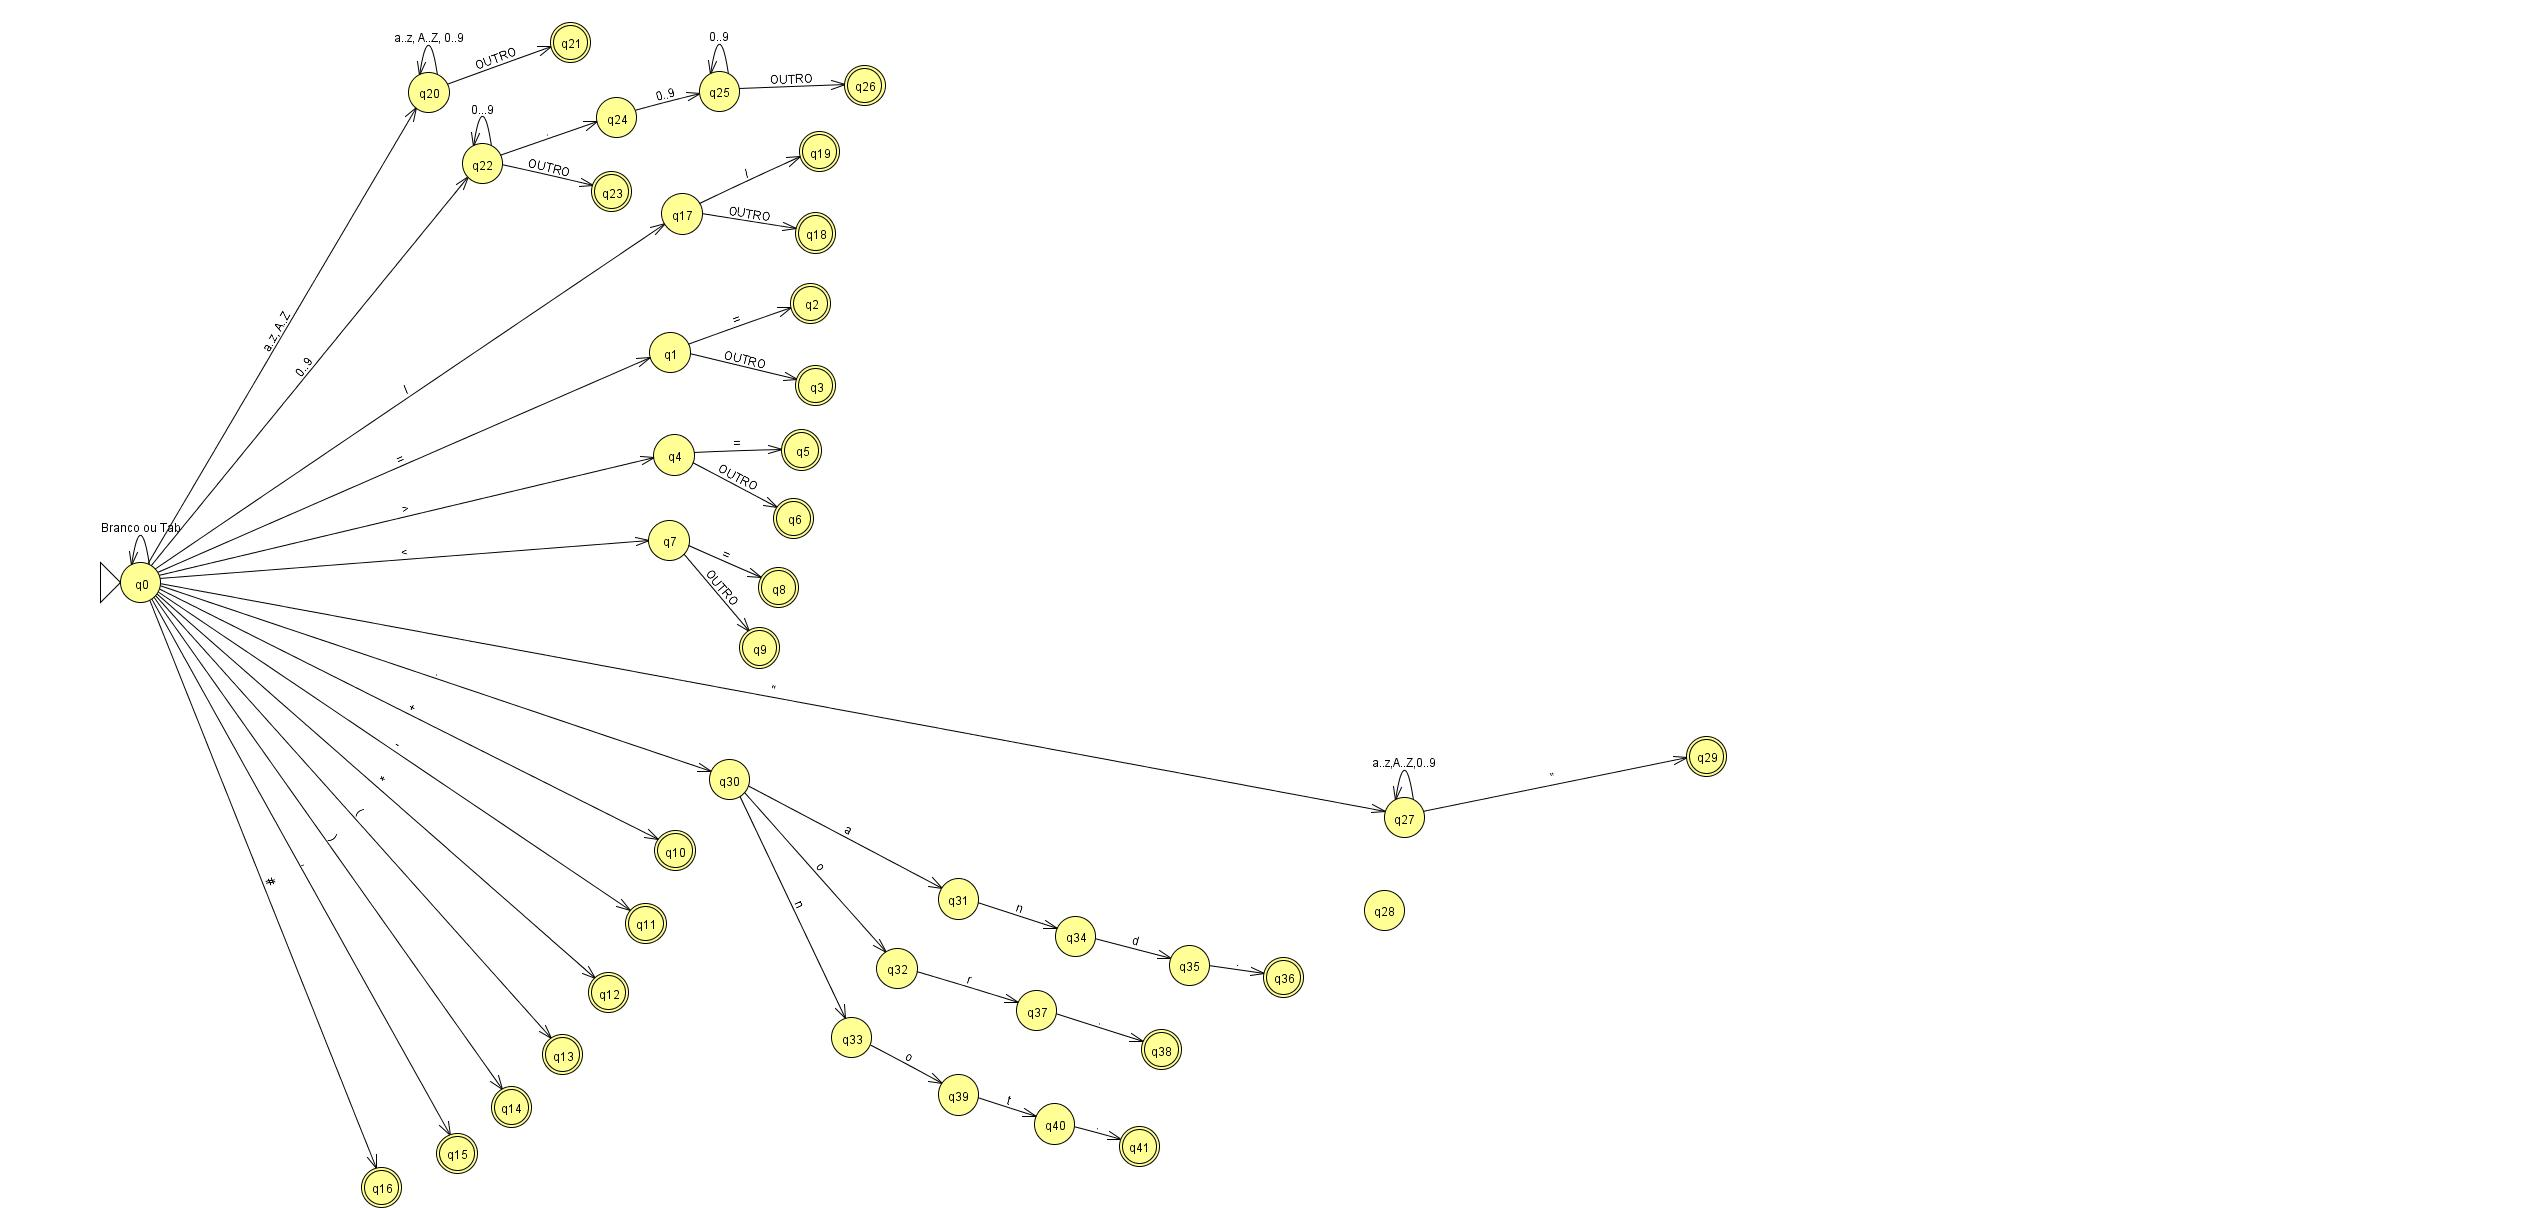
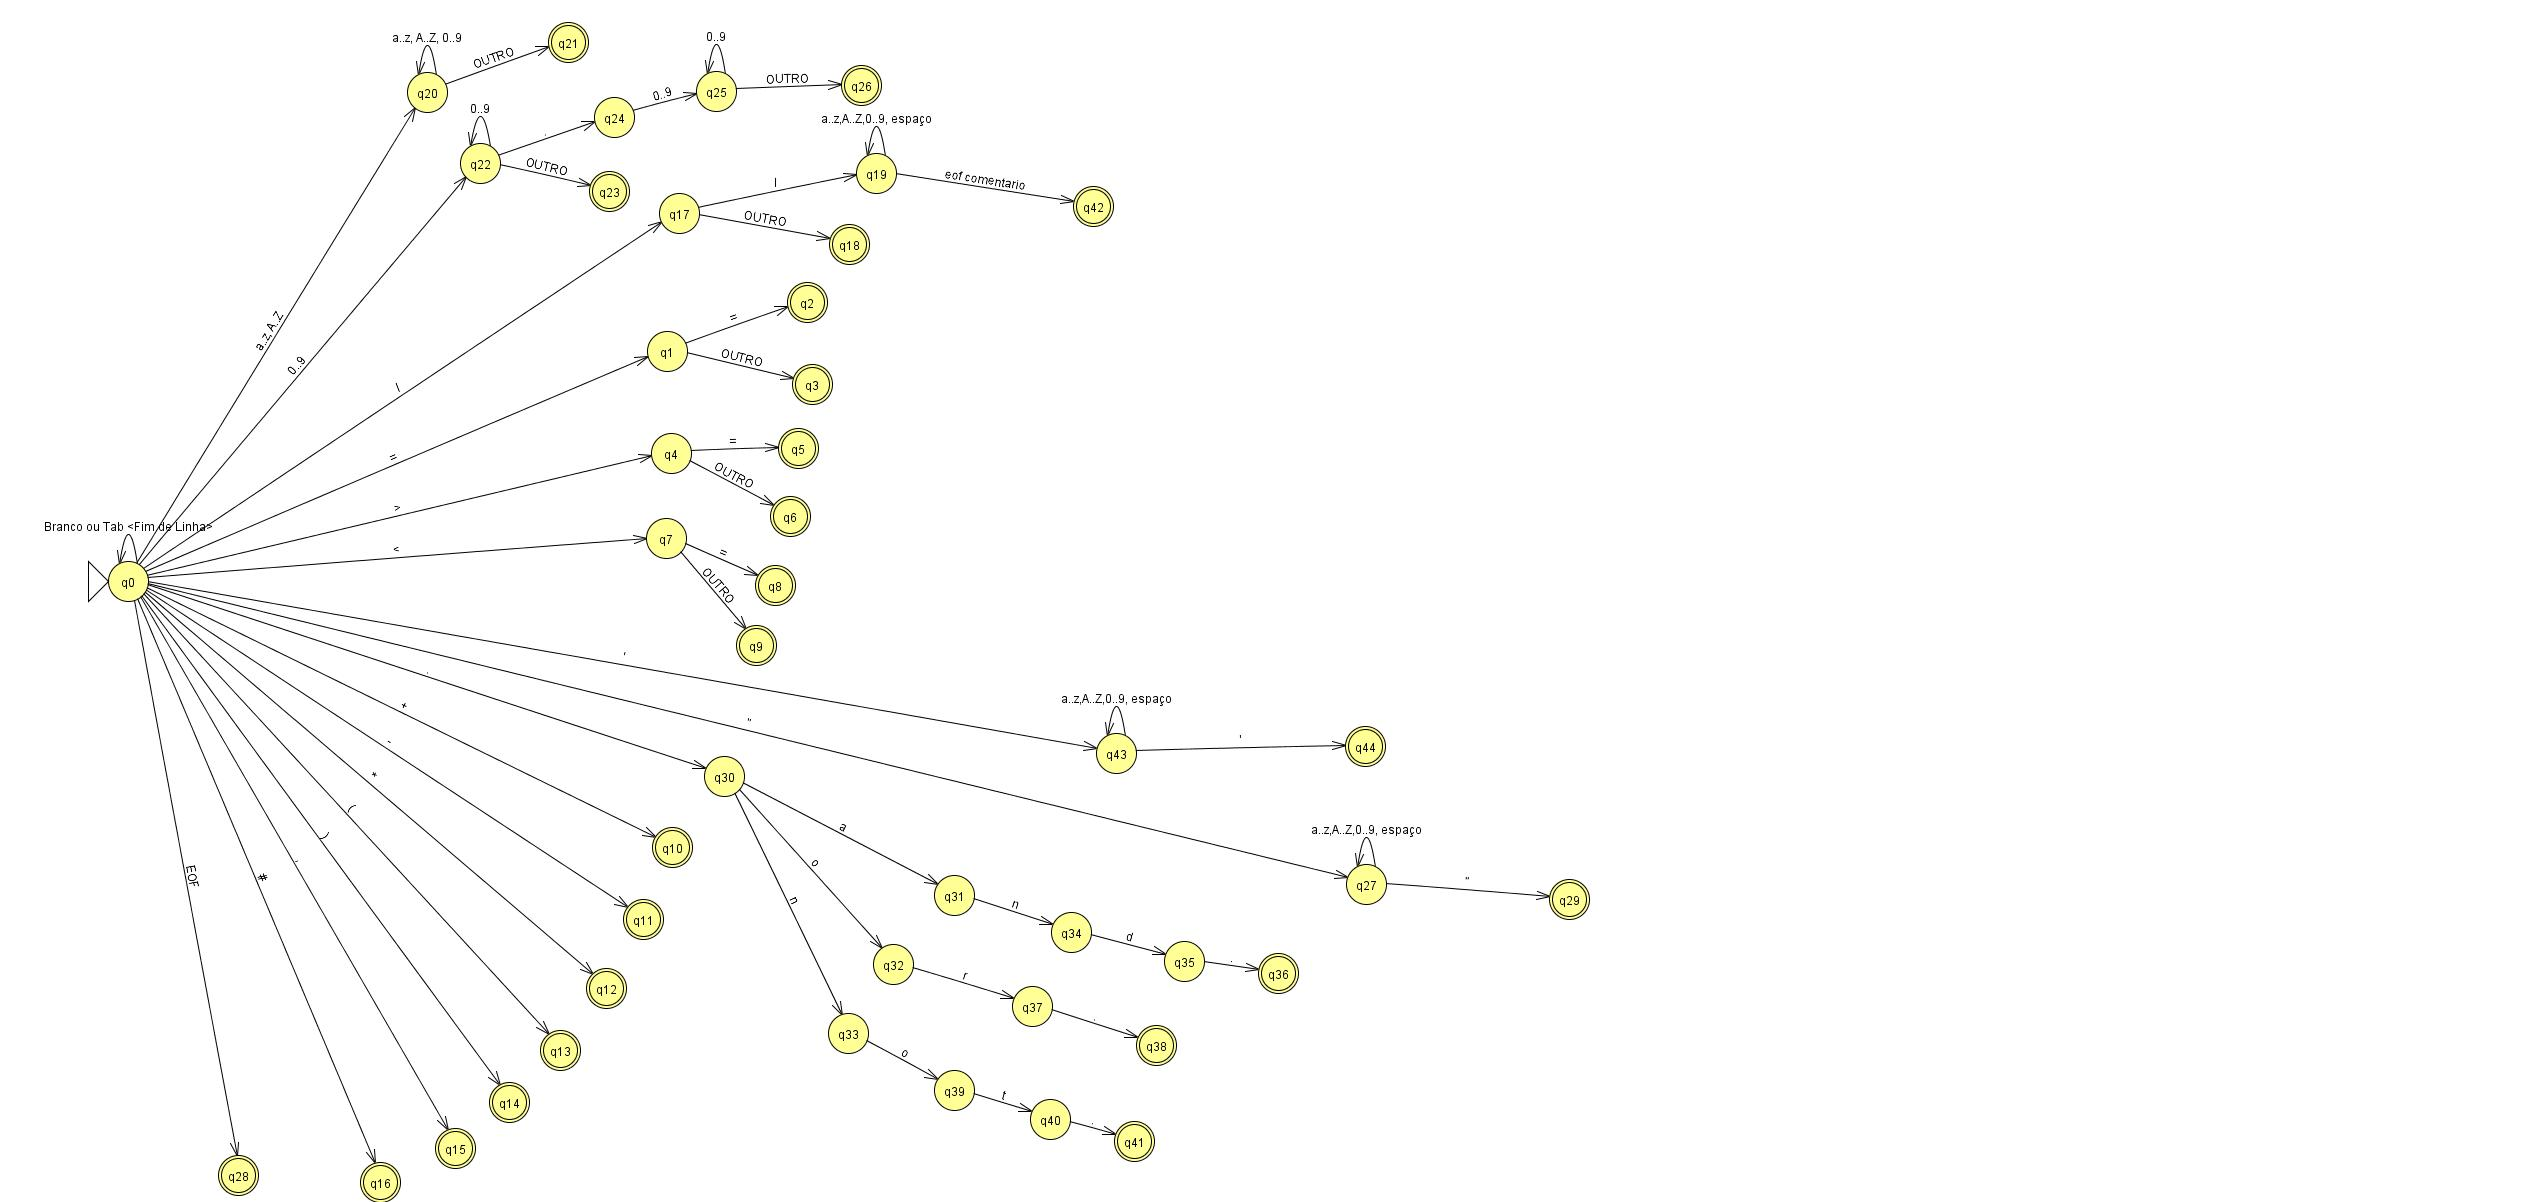
att afd.jpg

diff --git a/Analex.c b/Analex.c
@@ -1,17 +1,22 @@
-#include <stdio.h> 
-#include <stdlib.h> 
-#include <ctype.h> 
-#include <string.h> 
-#include <stdbool.h> 
+#include <stdio.h>
+#include <stdlib.h>
+#include <ctype.h>
+#include <string.h>
+
 #include "Analex.h"
 
 #define TAM_LEXEMA 31
 #define TAM_LITERAL 200
 
+int contLinha = 1;
 
-void error(char msg[]) { 
-    printf("%s\n", msg); 
-    exit(1); 
+void errorLex(int contLinha, char caracter)
+{
+    char c_str[2];
+    c_str[0] = caracter;
+    c_str[1] = '\0';
+    printf("\nCaracter '%s' invalido na linha: %d\n", c_str, contLinha);
+    exit(1);
 }
 
 TOKEN AnaLex(FILE *fd) { 

diff --git a/Analex.h b/Analex.h
@@ -8,10 +8,10 @@ enum TOKEN_CAT {
     ID = 1, /*Identificador*/
     PR, /*Palavra reservada*/
     SN, /*Sinais*/
+    LT, /*literal*/
     CT_I, /*Constante inteira*/
     CT_R, /*Constante real*/
     CT_C, /*Caracter*/
-    LT, /*literal*/
     FIM_ARQ /*fim*/
 };
 
@@ -63,6 +63,7 @@ typedef struct {
     union {
         int codigo;
         char lexema[TAM_MAX_LEXEMA];
+        int indice;
         int valInt;
         float valReal;
         char valChar;
